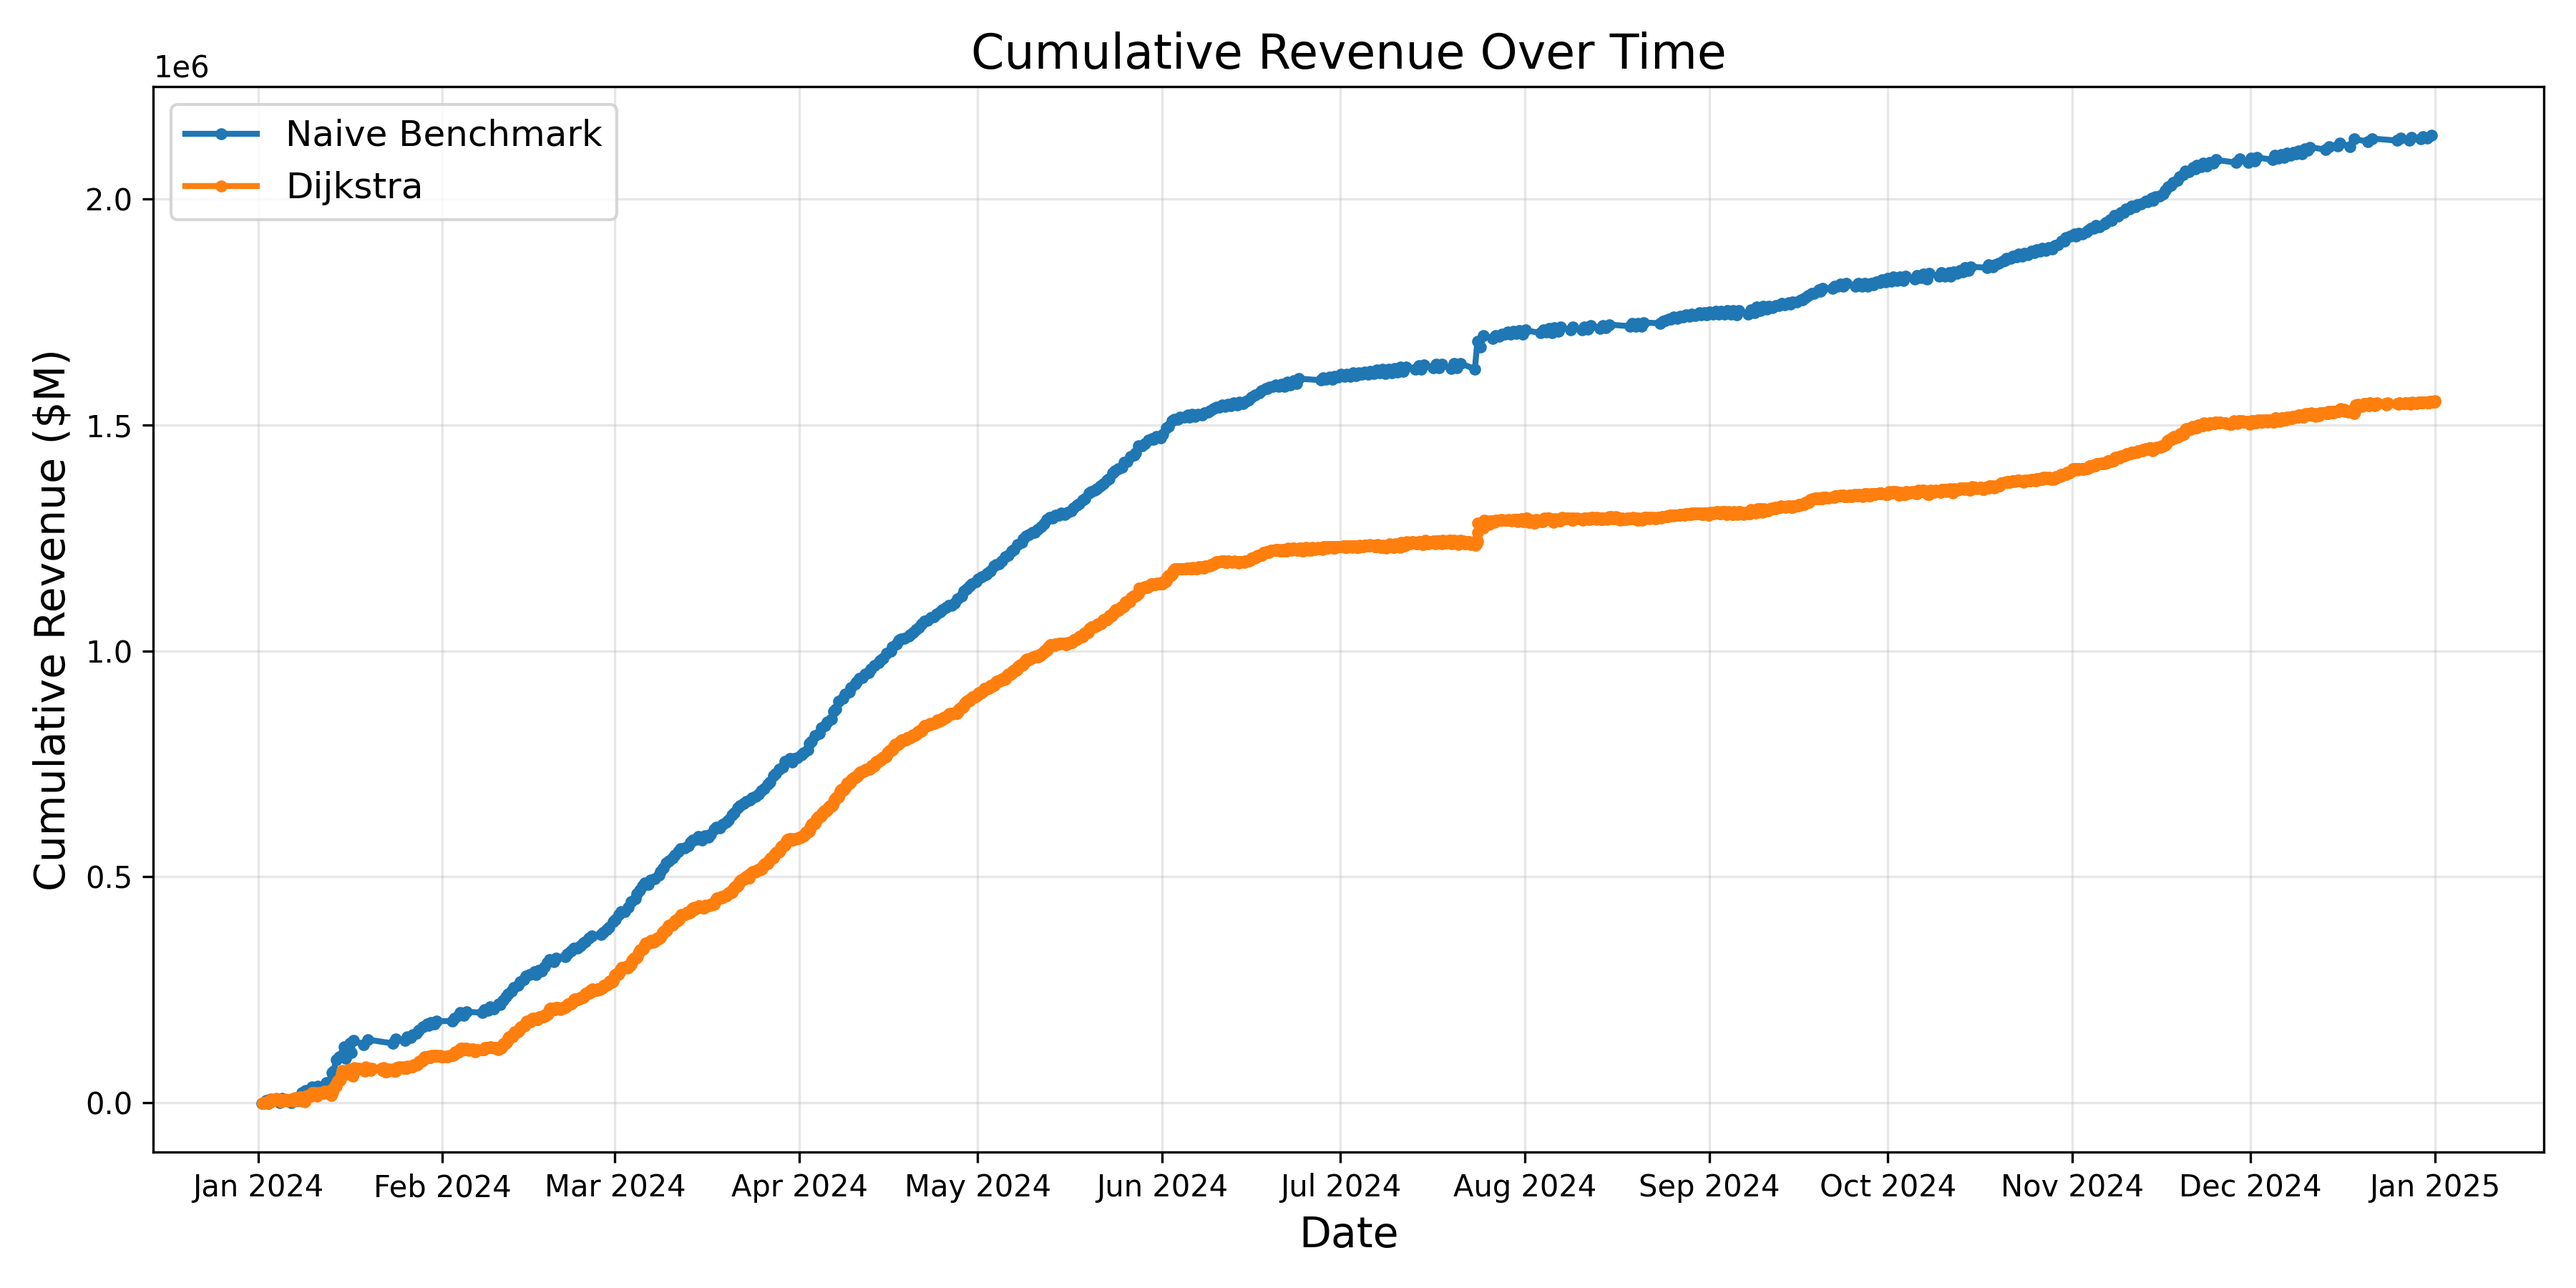
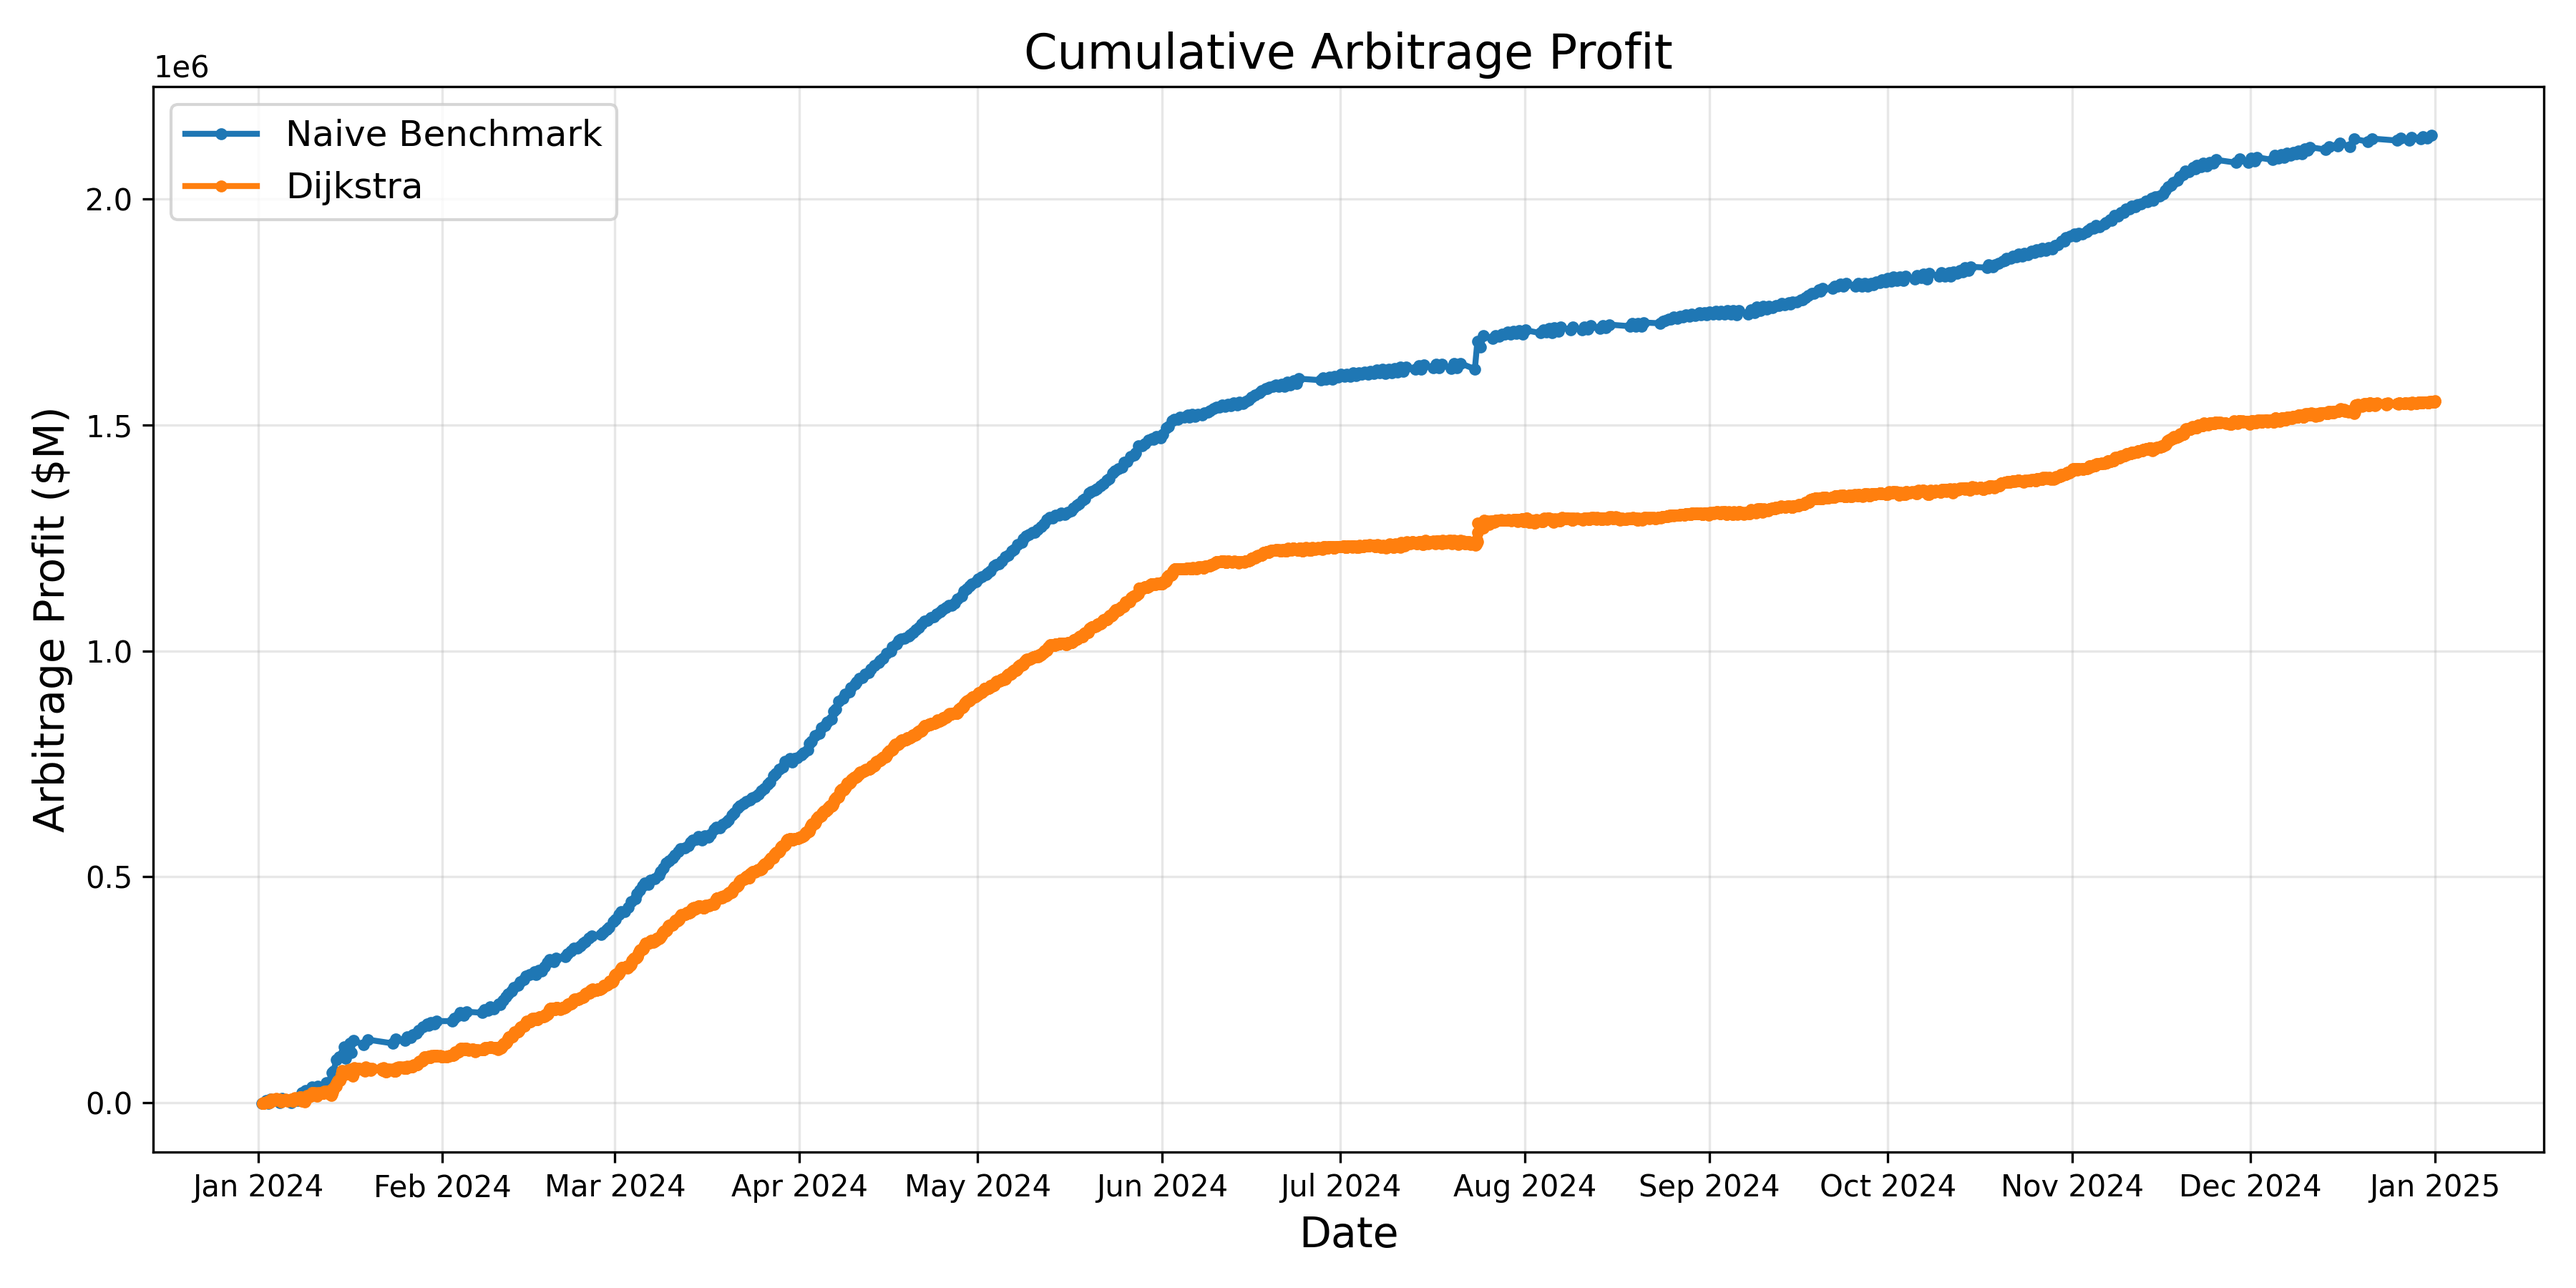
refactor: update plot labels from 'Revenue' to 'Arbitrage Profit' for clarity

Changed region(s): [[0.0, 0.28, 0.0311, 0.6844], [0.3733, 0.0311, 0.6844, 0.0622]]

diff --git a/plot_trade_data.py b/plot_trade_data.py
@@ -32,9 +32,9 @@ def plot_cumulative_revenue(combined_df=None, output_dir="trade_data"):
         plt.plot(algo_data['datetime'], algo_data['cumulative_revenue'], 
                  label=algo, linewidth=2, marker='o', markersize=3)
     
-    plt.title('Cumulative Revenue Over Time', fontsize=16)
+    plt.title('Cumulative Arbitrage Profit', fontsize=16)
     plt.xlabel('Date', fontsize=14)
-    plt.ylabel('Cumulative Revenue ($M)', fontsize=14)
+    plt.ylabel('Arbitrage Profit ($M)', fontsize=14)
     plt.grid(True, alpha=0.3)
     plt.legend(fontsize=12)
     
@@ -81,9 +81,9 @@ def plot_daily_revenue(output_dir="trade_data"):
     plt.plot(dijkstra_daily['date'], dijkstra_ma, 
              label='Dijkstra 7-day MA', linewidth=2.5)
     
-    plt.title('Daily Revenue by Algorithm', fontsize=16)
+    plt.title('Daily Arbitrage Profit by Algorithm', fontsize=16)
     plt.xlabel('Date', fontsize=14)
-    plt.ylabel('Daily Revenue ($)', fontsize=14)
+    plt.ylabel('Daily Arbitrage Profit ($)', fontsize=14)
     plt.grid(True, alpha=0.3)
     plt.legend(fontsize=12)
     
@@ -127,9 +127,9 @@ def plot_monthly_revenue(output_dir="trade_data"):
     plt.figure(figsize=(14, 7))
     pivot_df.plot(kind='bar', width=0.8, figsize=(14, 7))
     
-    plt.title('Monthly Revenue by Algorithm', fontsize=16)
+    plt.title('Monthly Arbitrage Profit by Algorithm', fontsize=16)
     plt.xlabel('Month', fontsize=14)
-    plt.ylabel('Monthly Revenue ($)', fontsize=14)
+    plt.ylabel('Monthly Arbitrage Profit ($)', fontsize=14)
     plt.grid(True, axis='y', alpha=0.3)
     plt.legend(fontsize=12)
     
